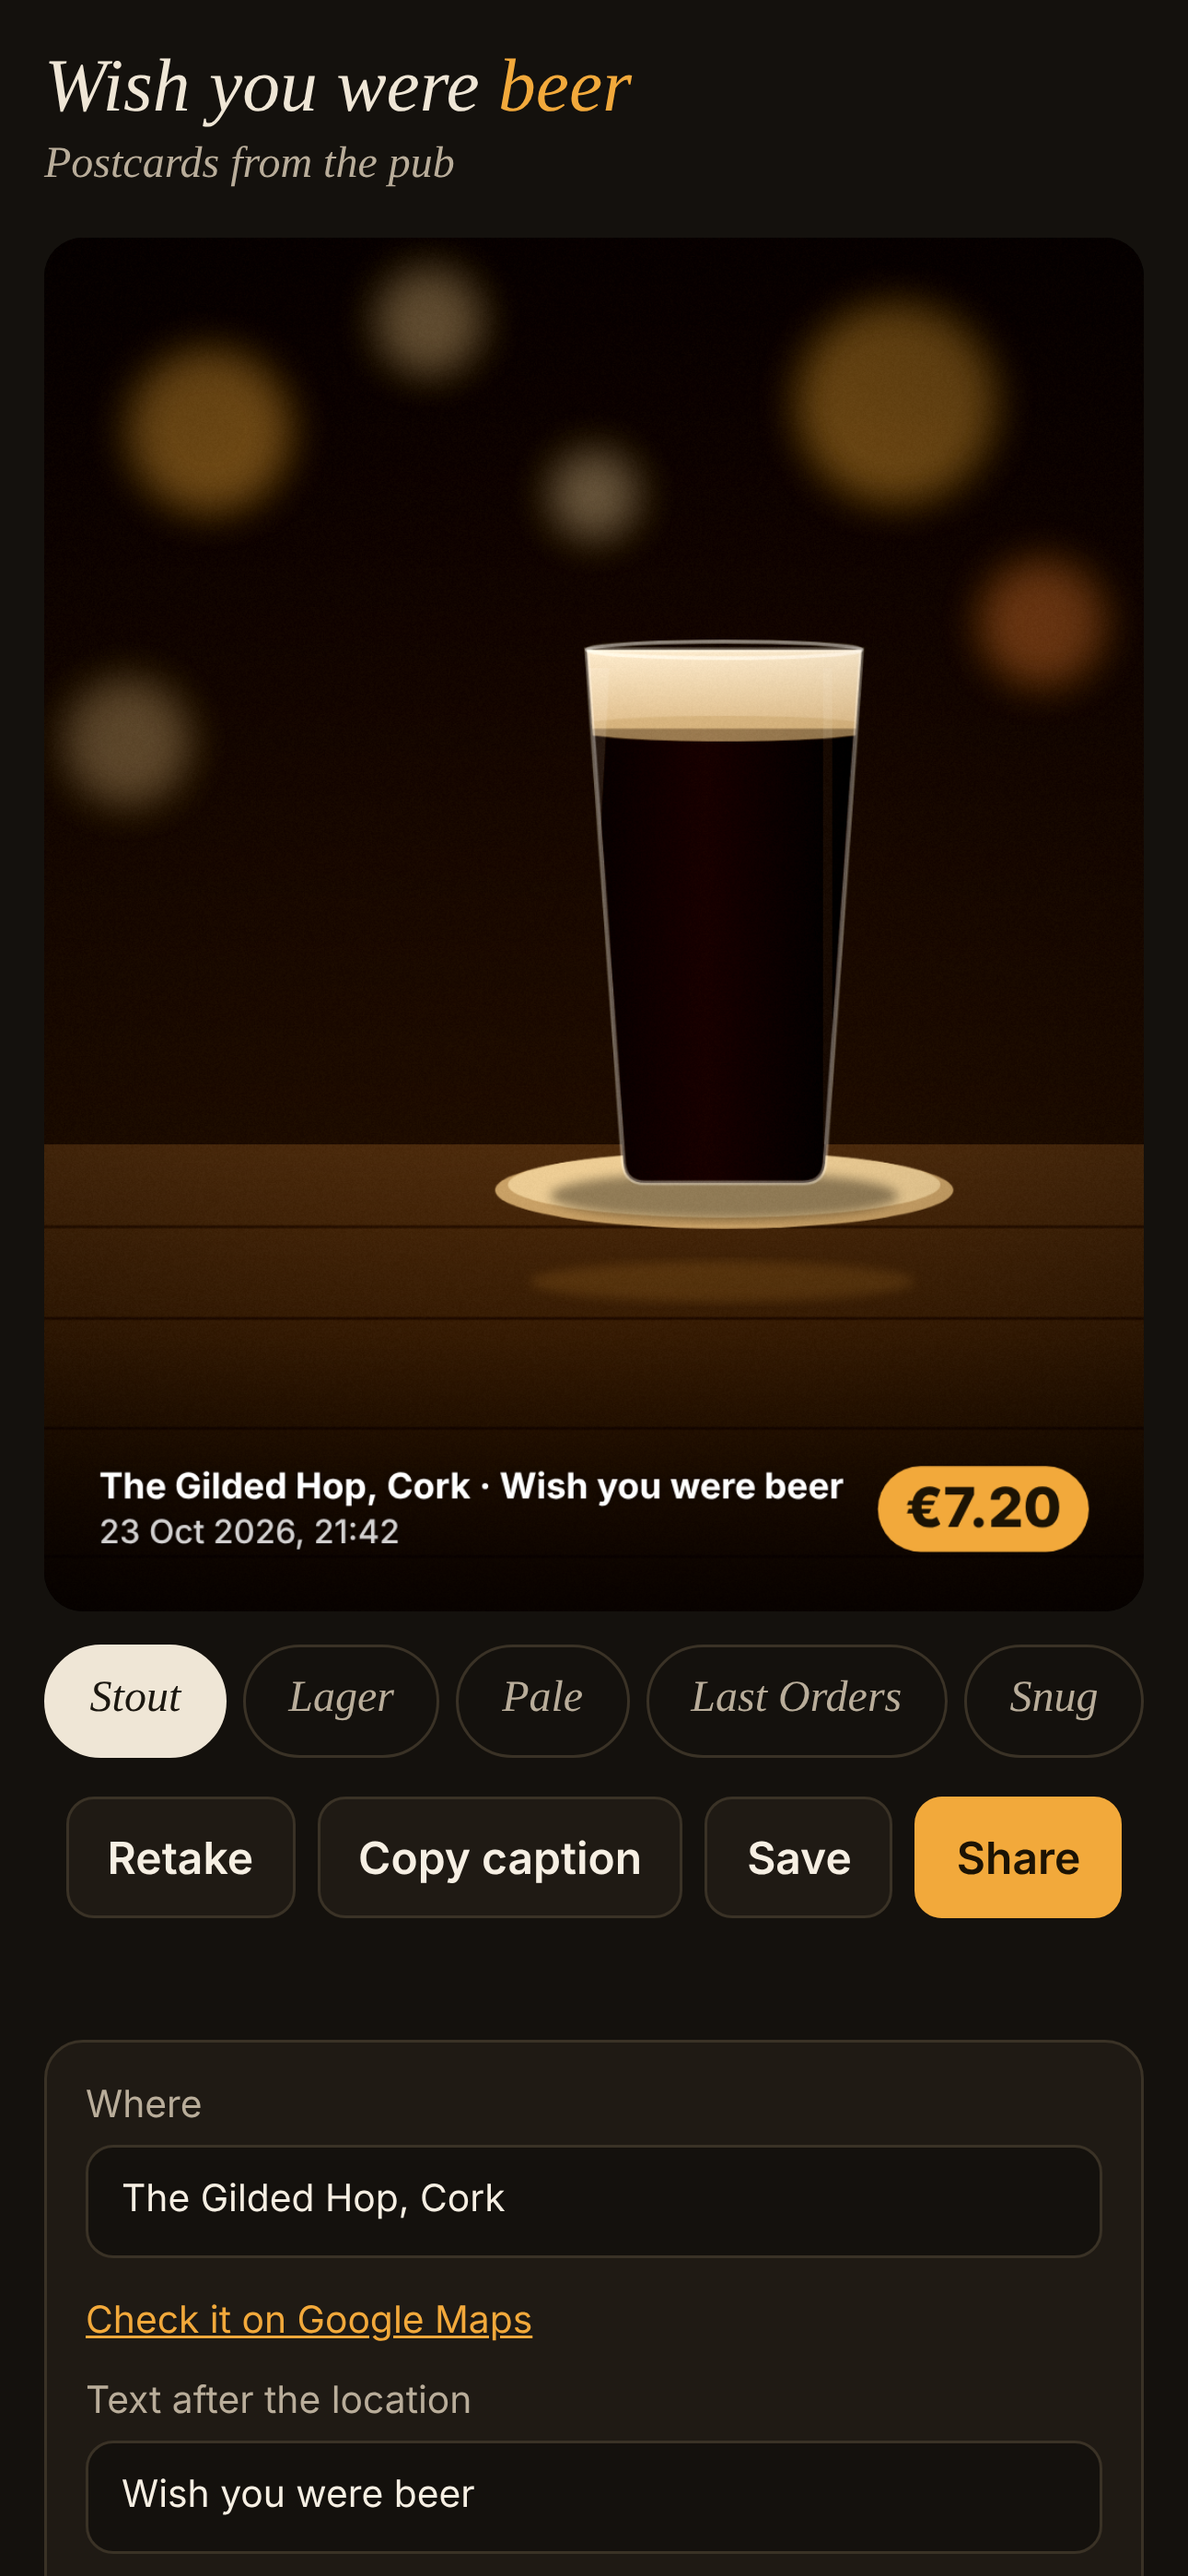
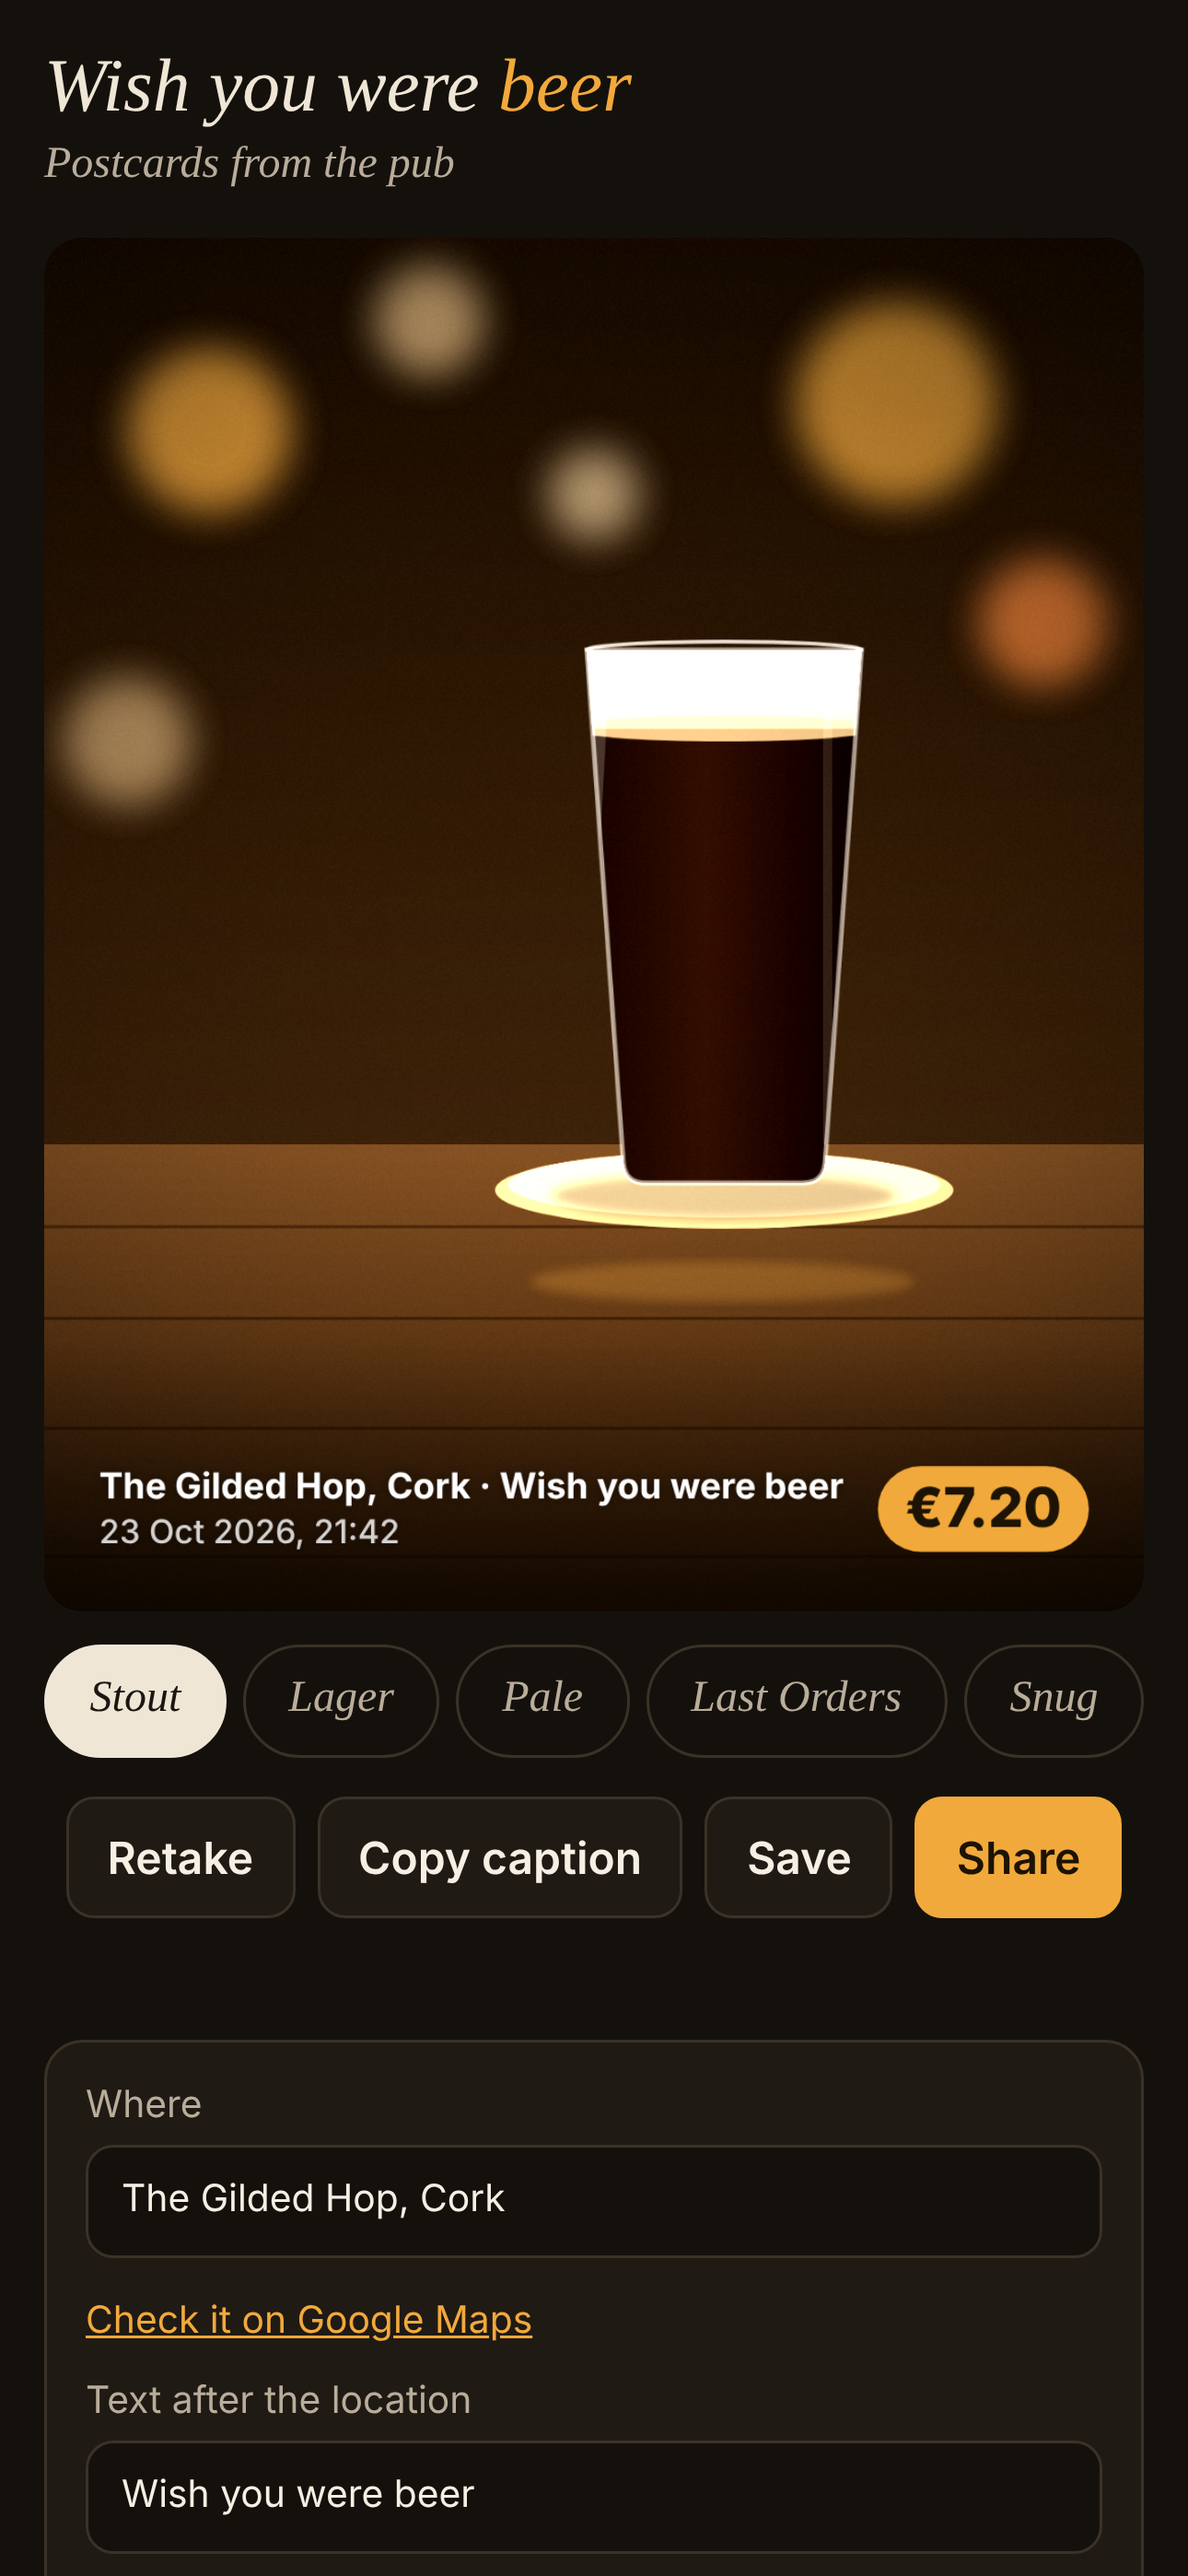
Default to portrait, lift dark photos, add dollar currency
Tested against four real drink photos. Portrait matches the shape of
phone photos, dim pub shots are lifted before the look is applied, and
launch notes cover price positioning and store screenshot safety.

Claude-Session: https://claude.ai/code/session_01PGWo1C48BmUvDrftMuny1w

Changed region(s): [[0.031, 0.0933, 0.9612, 0.5912], [0.093, 0.1245, 0.2791, 0.2178], [0.3101, 0.0933, 0.4341, 0.1556]]

diff --git a/wish-you-were-beer/index.html b/wish-you-were-beer/index.html
@@ -165,7 +165,7 @@
     <label class="check"><input type="checkbox" id="mapsOn" checked> Add a Google Maps link to the caption</label>
     <label class="check"><input type="checkbox" id="priceOn"> Add the price</label>
     <div class="price-row" id="priceRow" hidden>
-      <select id="cur" aria-label="Currency"><option>€</option><option>£</option></select>
+      <select id="cur" aria-label="Currency"><option>€</option><option>£</option><option>$</option></select>
       <input type="text" id="price" inputmode="decimal" placeholder="7.20" aria-label="Price of the drink" autocomplete="off">
     </div>
   </div>
@@ -173,8 +173,8 @@
   <div class="panel">
     <label class="check"><input type="checkbox" id="gridOn" checked> Golden ratio grid</label>
     <div class="seg" role="radiogroup" aria-label="Image size">
-      <label><input type="radio" name="fmt" value="square" checked><span>Square</span></label>
-      <label><input type="radio" name="fmt" value="portrait"><span>Portrait</span></label>
+      <label><input type="radio" name="fmt" value="square"><span>Square</span></label>
+      <label><input type="radio" name="fmt" value="portrait" checked><span>Portrait</span></label>
       <label><input type="radio" name="fmt" value="story"><span>Story</span></label>
     </div>
   </div>
@@ -255,10 +255,16 @@ function applyLook(ctx, w, h, look) {
   const img = ctx.getImageData(0, 0, w, h), d = img.data;
   const cx = w / 2, cy = h / 2, maxd = Math.hypot(cx, cy);
   const px = [0, 0, 0];
+
+  // Pub photos run dark. Lift dim ones towards a mid exposure before the look is applied.
+  let sum = 0, n = 0;
+  for (let i = 0; i < d.length; i += 64) { sum += 0.2126 * d[i] + 0.7152 * d[i + 1] + 0.0722 * d[i + 2]; n++; }
+  const gain = Math.min(1.6, Math.max(1, 0.4 / Math.max(sum / n / 255, 0.01)));
+  const exp = look.exp * gain;
   for (let y = 0; y < h; y++) {
     for (let x = 0; x < w; x++) {
       const i = (y * w + x) * 4;
-      px[0] = d[i] / 255 * look.exp; px[1] = d[i + 1] / 255 * look.exp; px[2] = d[i + 2] / 255 * look.exp;
+      px[0] = d[i] / 255 * exp; px[1] = d[i + 1] / 255 * exp; px[2] = d[i + 2] / 255 * exp;
       const l = 0.2126 * px[0] + 0.7152 * px[1] + 0.0722 * px[2];
       const v = 1 - look.vig * Math.pow(Math.hypot(x - cx, y - cy) / maxd, 2.2);
       const n = look.grain ? (Math.random() - 0.5) * look.grain : 0;

diff --git a/wish-you-were-beer/launch/tools/screenshots.js b/wish-you-were-beer/launch/tools/screenshots.js
@@ -30,6 +30,7 @@ const root = process.argv[2];
   await p.evaluate(() => document.activeElement.blur());
   await p.screenshot({ path: out('1-viewfinder') });
 
+  await p.check('input[value=square]');
   await p.click('#shutter');
   await p.waitForTimeout(600);
   await p.click('#looks button[data-look=lager]').catch(() => {});

diff --git a/wish-you-were-beer/launch/APP_STORE.md b/wish-you-were-beer/launch/APP_STORE.md
@@ -91,7 +91,7 @@ Suggested text for the review notes field:
 1. **Alcohol content.** Guideline text covers apps that encourage excessive consumption. VERIFY the current wording under the safety guidelines. The copy above keeps to documenting a drink, not drinking more of it.
 2. **Thin web wrappers.** An app that is only a website in a frame risks rejection for minimum functionality. See `WORKFLOW.md` for how I would add native camera and share features to avoid that.
 3. **Name and trademark.** "Wish You Were Here" is the title of an ITV programme and a well known album. A pun is usually tolerated for a small free app, and it is a bigger risk if you charge for it. Search the UK, Irish and EU trademark registers for "Wish You Were Beer" before you commit. I could not run that search here.
-4. **Screenshots.** Apple wants screenshots that show the real app in use. The ones in `framed/` use an illustrated pint as a stand in. Replace them with real photos before you submit.
+4. **Screenshots.** Apple wants screenshots that show the real app in use. The ones in `framed/` use an illustrated pint as a stand in. Replace them with real photos before you submit, and choose photos with no other company's branding and no identifiable people. Photos like the Guinness glass or the Super Bock mug put someone else's trademark in your store images, and a footballer on a TV screen brings in a person's likeness and competition logos. A plain glass on a table, or your own drink with the labels turned away, is safer.
 5. **Using a real pub name.** The screenshots use an invented pub, "The Gilded Hop, Cork". Keep it that way in store images.
 
 ## Pricing

diff --git a/wish-you-were-beer/launch/PRICE_LOG.md b/wish-you-were-beer/launch/PRICE_LOG.md
@@ -8,7 +8,7 @@ When someone shares a postcard with a price on it, the app could also send one a
 
 ## A tension to settle first
 
-You want the app to highlight and promote places, and the price stamp is partly a joke about how expensive pints are. A public map of prices turns that joke into a ranking of the dearest pubs, which is the opposite of promotion for the venue. If promotion is the aim, I would drop the price log and keep the price as something a person chooses to put on their own card.
+You have said you want the app to promote two things: the places and the prices. I accept that prices are core, and the price already travels with every card people share. The risk is narrower than I first put it. A public map that sorts pubs by how dear they are turns the joke into a ranking of the most expensive places, which works against the venue. A map that simply shows what a pint typically costs in each place, with no ranking and no "dearest" list, is a service. Keep it to that, and keep the minimum of three reports.
 
 ## Rules I would keep
 

diff --git a/wish-you-were-beer/launch/README.md b/wish-you-were-beer/launch/README.md
@@ -14,6 +14,8 @@ Prepared overnight for your review. Nothing here is submitted or published anywh
 | `assets/` | The illustrated pint used as the demo photo |
 | `tools/` | Scripts that regenerate the screenshots |
 
+I also ran four of your real drink photos through every look to test the app. Those stay out of the repository on purpose, because they carry other companies' branding and one shows a footballer and tournament logos. What the test showed is in the notes in `WORKFLOW.md`.
+
 The pint in every image is an illustration standing in for a real photo, and the pub, "The Gilded Hop, Cork", is invented. Replace them with real photos before you submit anything to Apple.
 
 ## Decisions for the morning

diff --git a/wish-you-were-beer/launch/WORKFLOW.md b/wish-you-were-beer/launch/WORKFLOW.md
@@ -33,6 +33,8 @@ The pub name, the line after it, the currency and the look are remembered betwee
 | Postcard | The finished image with watermark, look chips, Retake, Copy caption, Save, Share |
 | Details | Where, text after the location, price switch, grid switch, size |
 
+The default size is portrait (4:5), because that is the shape phone photos of a drink usually arrive in, and square would crop them. Currency can be €, £ or $. Dark photos are lifted automatically before the look is applied.
+
 There are no accounts, no feed, no settings screen and no onboarding.
 
 ## Share behaviour
